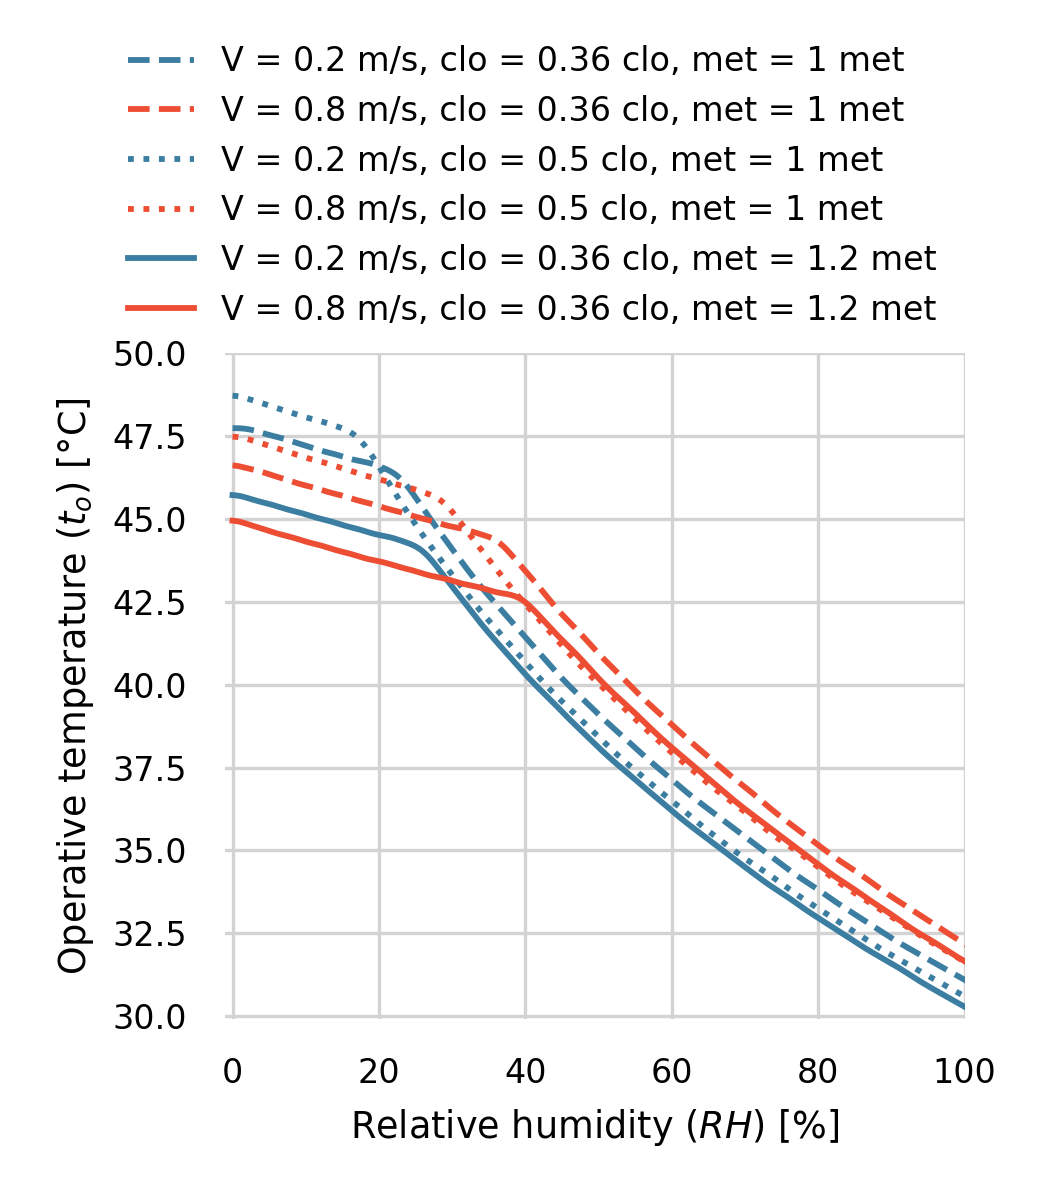
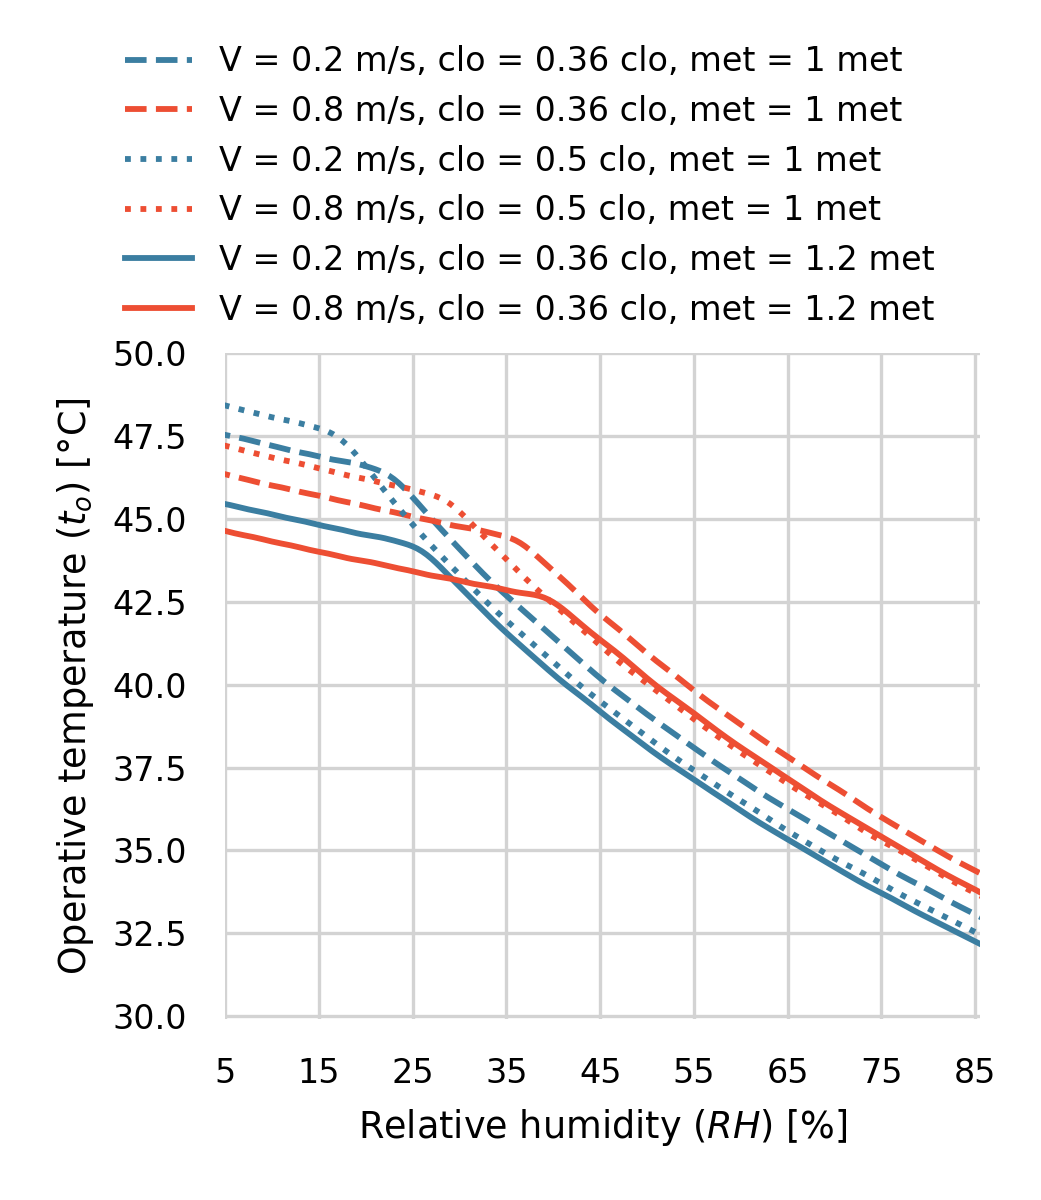
feat: changed ranges up to figure 6, edited the code to plot figure when use of fans is beneficial, reviewed results up until Section 3.4

diff --git a/code/main.py b/code/main.py
@@ -938,7 +938,8 @@ class DataAnalysis:
             xlabel=chart_labels["rh"],
             ylabel=chart_labels["top"],
             ylim=(29.9, 50),
-            xlim=(-1, 100),
+            xlim=(5, 85.5),
+            xticks=(np.arange(5, 95, 10)),
         )
 
         sns.despine(left=True, bottom=True, right=True)
@@ -968,8 +969,6 @@ class DataAnalysis:
             {"clo": 0.36, "met": 1, "ls": "dashed"},
             {"clo": 0.5, "met": 1, "ls": "dotted"},
             {"clo": 0.36, "met": 1.2, "ls": "solid"},
-            # {"clo": 0.5, "met": 1.2, "ls": "dashdot"},
-            # {"clo": 0, "met": 0.8, "ls": (0, (3, 1, 1, 1, 1, 1))},
         ]
 
         for combination in combinations:
@@ -1016,7 +1015,8 @@ class DataAnalysis:
             xlabel=chart_labels["rh"],
             ylabel=chart_labels["top"],
             ylim=(29.9, 50),
-            xlim=(-1, 100),
+            xlim=(5, 85.5),
+            xticks=(np.arange(5, 95, 10)),
         )
 
         sns.despine(left=True, bottom=True, right=True)
@@ -1111,9 +1111,6 @@ class DataAnalysis:
         f, ax = plt.subplots(
             len(v_range), 1, sharex="all", sharey="all", constrained_layout=True
         )
-
-        # self.ta_range = range(38, 48)
-        # self.rh_range = range(0, 30)
 
         df_comparison = pd.DataFrame()
 
@@ -1263,7 +1260,7 @@ class DataAnalysis:
 
         alpha = 0.45
 
-        rh_arr = np.arange(0, 110, 2)
+        rh_arr = np.arange(36, 105, 1)
         tmp_low = []
 
         def function(x):
@@ -1276,8 +1273,7 @@ class DataAnalysis:
                     met=self.defaults["met"],
                     clo=self.defaults["clo"],
                     wme=0,
-                )["skin_blood_flow"]
-                + 0.1
+                )["temp_core"]
                 - use_fans_heatwaves(
                     x,
                     x,
@@ -1286,47 +1282,18 @@ class DataAnalysis:
                     met=self.defaults["met"],
                     clo=self.defaults["clo"],
                     wme=0,
-                )["skin_blood_flow"]
+                )["temp_core"]
             )
 
         for rh in rh_arr:
 
-            t = 60
-
-            t_v_high = 90
-            t_v_low = 89
-
-            while t_v_high - t_v_low > -0.05:
-                t_v_high = use_fans_heatwaves(
-                    t,
-                    t,
-                    air_speeds[1],
-                    rh,
-                    met=self.defaults["met"],
-                    clo=self.defaults["clo"],
-                    wme=0,
-                )["skin_blood_flow"]
-                t_v_low = use_fans_heatwaves(
-                    t,
-                    t,
-                    air_speeds[0],
-                    rh,
-                    met=self.defaults["met"],
-                    clo=self.defaults["clo"],
-                    wme=0,
-                )["skin_blood_flow"]
-                t -= 0.5
-                print(t)
-
-            tmp_low.append(t)
-
-            # try:
-            #     tmp_low.append(optimize.brentq(function, 30, 130))
-            # except ValueError:
-            #     tmp_low.append(np.nan)
+            try:
+                tmp_low.append(optimize.brentq(function, 30, 130))
+            except ValueError:
+                tmp_low.append(np.nan)
 
         # plot heat strain lines
-        heat_strain = self.heat_strain.copy()
+        heat_strain = {}
 
         for ix, v in enumerate(air_speeds):
 
@@ -1359,76 +1326,75 @@ class DataAnalysis:
             for x_val, y_val in zip(x, y_smoothed):
                 heat_strain[v][x_val] = y_val
 
-            if plot_heat_strain_lines:
-                if v == air_speeds[0]:
-                    (ln_2,) = ax.plot(
-                        x, y_smoothed, label=f"V = {v} m/s", c="k", linestyle="-"
-                    )
-                if v == air_speeds[1]:
-                    (ln_0,) = ax.plot(
-                        x, y_smoothed, label=f"V = {v} m/s", c="k", linestyle="-."
-                    )
+        if plot_heat_strain_lines:
+            ax.plot(
+                x,
+                heat_strain[air_speeds[0]].values(),
+                label=f"V = {air_speeds[0]} m/s",
+                c="k",
+                linestyle="-",
+            )
 
-        x_new, y_new = interpolate(rh_arr, tmp_low)
+            ax.plot(
+                x,
+                heat_strain[air_speeds[1]].values(),
+                label=f"V = {air_speeds[1]} m/s",
+                c="k",
+                linestyle="-.",
+            )
+
+        t_cutoff = 30
+        rh_cutoff = 10
+        for rh in heat_strain[air_speeds[0]].keys():
+            if heat_strain[air_speeds[0]][rh] + 0.1 >= heat_strain[air_speeds[1]][rh]:
+                t_cutoff = heat_strain[air_speeds[0]][rh]
+                rh_cutoff = rh
+
         x_new, y_new = rh_arr, tmp_low
 
+        y_new = [x if x < t_cutoff else t_cutoff for x in y_new]
+
         # plotting this twice to ensure consistency colors previous chart
-        fb_0 = ax.fill_between(
-            x_new,
-            y_new,
-            100,
+        ax.fill_between(
+            [0, *x_new],
+            [t_cutoff, *y_new],
+            50,
             color="coral",
             alpha=alpha,
             label=f"No fans - V = {air_speeds[1]} m/s",
             edgecolor=None,
         )
 
-        df = pd.DataFrame(heat_strain)
-        df_fan_above = df[df[air_speeds[1]] >= df[air_speeds[0]]]
-        df_fan_below = df[df.index <= df_fan_above.index.min()]
+        upper_limit_heat_strain = [
+            x if x < t_cutoff else t_cutoff for x in heat_strain[air_speeds[1]].values()
+        ][-len(x_new) :]
 
-        x_new, y_new = interpolate(
-            rh_arr, tmp_low, x_new=list(df_fan_above.index.values)
-        )
+        upper_limit_heat_strain.insert(0, t_cutoff)
 
         ax.fill_between(
-            x_new,
-            df_fan_above[air_speeds[1]].values,
-            y_new,
+            [rh_cutoff, *x_new],
+            upper_limit_heat_strain,
+            [t_cutoff, *y_new],
             color="#2dc653",
             alpha=alpha,
             label=f"Heat strain - fans beneficial",
             edgecolor=None,
         )
 
-        # green part on the right
-        fb_2 = ax.fill_between(
-            x_new, 0, y_new, color="#b7efc5", alpha=alpha, edgecolor=None
-        )
-
-        # # green part below evaporative cooling
         ax.fill_between(
-            df_fan_below.index,
-            0,
-            df_fan_below[air_speeds[1]].values,
+            [0, rh_cutoff, *x_new],
+            25,
+            [t_cutoff, *upper_limit_heat_strain],
             color="#b7efc5",
             alpha=alpha,
             label=f"No heat strain - fans beneficial",
             edgecolor=None,
         )
 
-        # blue part below evaporative cooling
-        fb_3 = ax.fill_between(
-            df_fan_below.index,
-            df_fan_below[air_speeds[1]].values,
-            100,
-            color="coral",
-            alpha=alpha,
-        )
-
         ax.set(
-            ylim=(29.9, 50),
-            xlim=(0, 100),
+            ylim=(29.95, 50),
+            xlim=(5, 85.05),
+            xticks=(np.arange(5, 95, 10)),
             xlabel=chart_labels["rh"],
             ylabel=chart_labels["top"],
         )
@@ -1463,21 +1429,6 @@ class DataAnalysis:
 
         # horizontal line showing limit imposed by most of the standards
         ax.plot([0, 100], [35, 35], c="tab:red")
-
-        # # add legend
-        # plt.legend(
-        #     [ln_2, ln_0, fb_2, fb_0, fb_3],
-        #     [
-        #         f"V = {air_speeds[0]} m/s",
-        #         f"V = {air_speeds[1]} m/s",
-        #         "Use fans",
-        #         f"No fans - V = {air_speeds[1]} m/s",
-        #         "Evaporative cooling",
-        #     ],
-        #     loc="lower left",
-        #     ncol=2,
-        #     facecolor="w",
-        # )
 
         # add legend
         if legend:
@@ -2718,7 +2669,7 @@ if __name__ == "__main__":
         # "ravanelli_comp",
         # "met_clo",
         # "summary_use_fans_weather",
-        # "summary_use_fans_comparison_experimental",
+        "summary_use_fans_comparison_experimental",
         # "summary_use_fans_and_population_tdb_max",
         # "world_map_population_weather",
         # "met_clo_v",
@@ -2774,7 +2725,7 @@ if __name__ == "__main__":
         if figure_to_plot == "phs":
             self.phs_results(save_fig=save_figure)
 
-    self.summary_use_fans_two_speeds()
+    # self.summary_use_fans_two_speeds()
 
     #     self.defaults["met"] = 1.8
     #     self.summary_use_fans_two_speeds()

diff --git a/manuscript/src/sections/results.tex b/manuscript/src/sections/results.tex
@@ -54,9 +54,6 @@ The \acf{m-sweat} is shown in Figure~\ref{fig:comparison_models}D\@.
 The difference between the results obtained with the two heat balance models can be attributed to the fact that \citeauthor{Jay2015} calculate the value of \ac{m-sweat} as a function of the required latent energy that the body should, in theory, dissipate to achieve thermal neutrality and the required evaporative efficiency of sweating (i.e., the amount of sweat produced that evaporates).
 The latter was estimated using ISO 7933 equation and it is estimated as a function of \ac{w} alone.
 On the other hand, \citeauthor{GaggeSET} calculate the value of \ac{m-sweat} as a function of regulatory signals and they assume that \ac{m-sweat} cannot exceed 500~mL/h.
-
-% todo Ollie Jay: I think that when the Gagge model reaches a steady-state the sweat output should be the same as that required to achieve Ereq (adjusted for differences in sweating efficiency). I am pretty sure that is the basis of the PHS as well - in fact I think the PHS' predecessor, which the PHS built upon,  was called the required sweat rate for heat balance index
-
 The excess heat stored in the human body (\acs{s-cr} + \acs{s-sk}), \ac{t-sk}, and \ac{t-cr} are shown in Figure~\ref{fig:results_model_2}A, \ref{fig:results_model_2}C, and \ref{fig:results_model_2}D, respectively.
 When the body can no longer dissipate exogenous and endogenous heat gains, the excess heat causes \ac{t-sk} and \ac{t-cr} to rise.
 
@@ -81,11 +78,10 @@ For example, in an environment with \ac{rh}~=~60~\%, increasing \ac{v} from 0.2~
 The slope of the heat stress curve flattens at low values of \ac{rh}.
 The \ac{rh} value at which the curve flattens is proportional to \ac{v}.
 This can be explained by the fact (not shown in the Figures) that for low values of \ac{rh} skin blood flow reaches its upper limit causing thermal strain.
-Consequently, in the region where the heat stress curve for elevated air speeds is lower than the one for `still air' electric fans should not be used, unless the hot and dry air is pre-cooled to a point below the `elevated air speed' heat stress line.
+As previously stated in Section~\ref{subsec:data-analysis}, for temperatures higher that the one at which the two heat strain curves intersects electric fans should not be used.
+In the region where the heat stress curve for elevated air speeds is lower than the one for `still air' electric fans can only be used if the hot and dry air is pre-cooled to a point below the `elevated air speed' heat stress line.
 This can be achieved using passive cooling strategies such as evaporative cooling.
 \mycite{Jay2015} model fails to account for this aspect and overestimates the benefits of using fans for \ac{rh} values lower than 20~\% and \ac{t-db} above 46~$^{\circ}$C, please refer to Section~\ref{subsec:model-validation-experimental-data} for more information.
-
-% todo Ollie Jay: I actually think the overestimation of the efficacy of fan use with our old model occurs at much lower temperatures.. Based on all of the physiological data I am concerned that the present model overestimates the beneifits of fan use at these very dry and hot temperatures. I think that if we assessed fan use at say 42 or 43C and 5%RH, fans would be detrimental even in healthy young people
 
 \subsection{Metabolic Rate and Clothing}\label{subsec:met-clo}
 
@@ -102,38 +98,16 @@ Results for people wearing light summer clothing (walking shorts, short-sleeve s
 As expected, decreasing both \ac{met} and \ac{clo} has a net positive effect since it reduces both heat gain and thermal resistance, respectively.
 For values of \ac{rh} below 20~\% the model predicts that heat strain will be delayed by slightly increasing clothing levels.
 In these conditions people can easily sweat despite the higher clo level and additional clothing will reduce sensible heat gains.
-It should, however, be noted that these results are affected by \ac{i-cl}.
+It should, however, be noted that these results are affected by \ac{i-cl}, hence, we allow \verb|pythermalcomfort| users to change the value of \ac{i-cl}.
 
-% todo huizenga: Do you want to mention vapor permeability of clothing here or is that too much detail?
-
-\subsection{Model Validation Using Experimental Data}\label{subsec:model-validation-experimental-data}
-
-To validate the results obtained with the \mycite{GaggeSET} model, we examined how the predicted value of \ac{t-cr} varies as a function of \ac{rh}, under a set of specific conditions as tested experimentally by \mycite{Rate2015} (e.g., \ac{t-db}~=~42~$^{\circ}$C, \ac{v}~=~4.0~m/s, \ac{clo}~=~0.35~clo, and \ac{met}~=~1.0~met).
-The results are shown in Figure~\ref{fig:comparison_ravanelli}.
-It should be noted that \mycite{Rate2015} only reported the core body temperature of one participant.
-% todo compare with the full dataset
-Consequently, despite the agreement with their experimental data (mean absolute error~=~\var{mean_abs_err_ravanelli}~$^{\circ}$C), more experimental data is needed for validation.
-% todo SS From this text it seems that the ONLY validation for the gagge model is this comparison with one subject that you did. Are you sure about this? I guess that there are papers out there that verified if Gagge model was accurate to predict core temperature. Given that you are not giving a real validation, maybe it is better to reference to more extensive valudations and remove this part. If this is the only validation, then consider moving it as appendix.
-
-% todo Ollie Jay: I agree with this comment... This one participant was an example and we have the data for the other participants , but still, it is only small subset of individuals so probably does not constitute a validation.
-
-\begin{figure}[hbt!]
-    % todo check font size
-    \centering
-    \includegraphics[width=0.5\textwidth]{figures/comparison_ravanelli}
-    \caption{Change in \acf{t-cr} as a function of \acf{rh}.
-    Where \ac{t-db}~=~42~$^{\circ}$C, \ac{v}~=~4.0~m/s, \ac{clo}~=~0.35~clo, and \ac{met}~=~1.0~met.
-    The figure shows the results calculated using the \mycite{GaggeSET} model and those obtained experimentally by \mycite{Rate2015}.}
-    \label{fig:comparison_ravanelli}
-\end{figure}
+\subsection{Humidity-dependent temperature thresholds for fan usage}\label{subsec:model-validation-experimental-data}
 
 The environmental conditions above which the use of elevated air speeds would be detrimental according to \mycite{GaggeSET} model are shown in Figure~\ref{fig:use_fans_experimental}.
 
 \begin{figure*}[hbt!]
     \centering
     \includegraphics[width=\textwidth]{figures/summary_use_fans_comparison_experimental}
-    \caption{The green area shows the environmental conditions in which the use of fans is beneficial since they provide additional cooling to the human body.
-    % todo Ollie Jay: I am still uncomfortable with the notion that fans should be recommended up to 45C and 0-5%RH. I do not think this matches the physiological data.
+    \caption{The green areas show the environmental conditions in which the use of fans is beneficial since they provide additional cooling to the human body.
     In the dark green region, while the use of fans is still beneficial, people are most likely to suffer from heat strain.
     The red area demarcates the region in which electric fans should not be used.
     The dotted lines show the isoenthalpic lines passing through the conditions studied by \mycite{Morris2019}.

diff --git a/manuscript/src/sections/methodology.tex b/manuscript/src/sections/methodology.tex
@@ -141,6 +141,7 @@ Thermal strain is assumed to occur when either of the following parameters reach
 The former assumption is based on the fact that there is a \ac{w-max} for healthy and acclimatized humans~\cite{ASHRA2017}.
 The other two assumptions are based on the fact that \mycite{GaggeSET} state that serious danger of fatality exists when blood flow from the core to the skin is maximal or sweating reaches its maximum.
 We assumed that the use of electric fans is detrimental when the value of \ac{t-cr} calculated for values of \ac{v} higher than 0.2~m/s exceeds the value determined for the `still air' condition.
+In addition, we recommend that fans should be turned off for temperatures (irrespectively of \ac{rh}) higher than the value of \ac{t-db} at which the thermal heat strain curve at elevated air speeds intersects the for `still air' condition.
 
 Results were calculated using the  \verb|pythermalcomfort| Python package~\cite{Tartarini2020a}.
 A copy of the algorithm we used to calculate the results can also be found in \ref{sec:python_code}.
